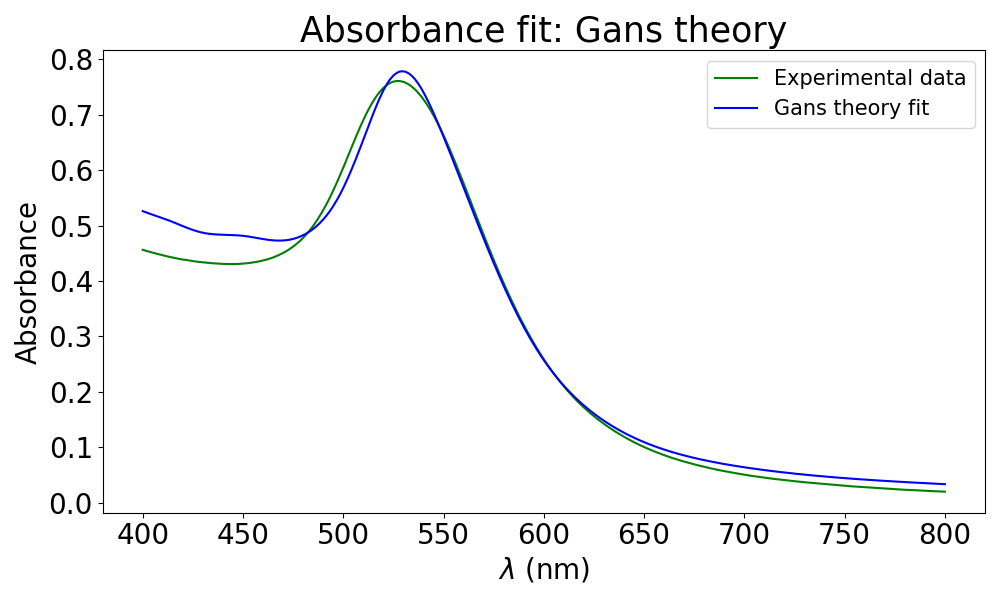
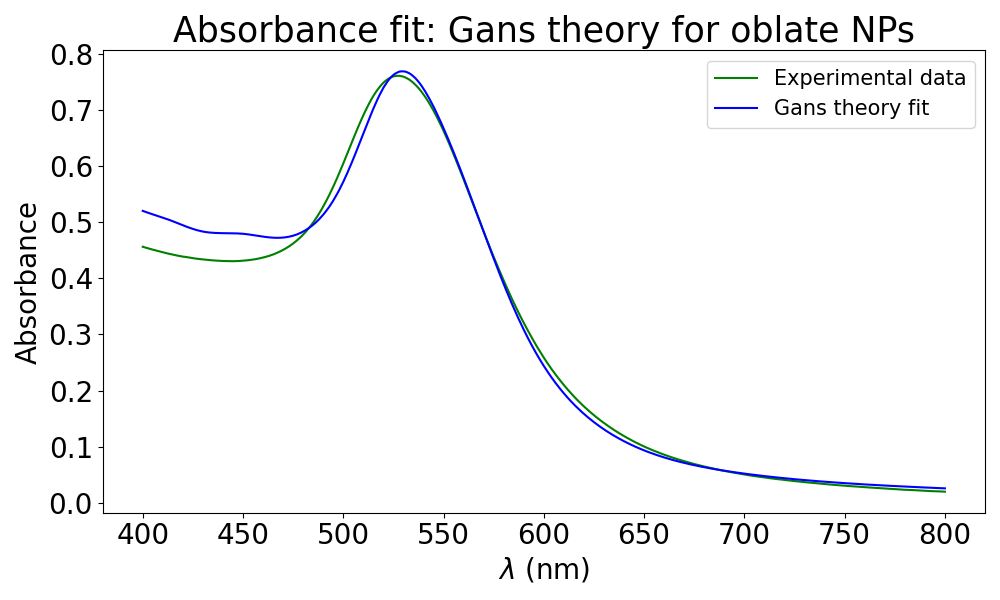
Clearing up some mess

diff --git a/main.py b/main.py
@@ -101,17 +101,34 @@ def Chi_R_epsilonm(R, epsilonm): # only accounts for the chi squared in the sele
 def Gans_prolate(e): # prolate dipolarization factor
     return (1-e**2)/e**2 * (1/(2*e)*np.log((1+e)/(1-e))-1)
 
+def Gans_oblate(e): # oblate dipolarization factor
+    return 1/e**2 * (1-np.sqrt(1-e**2)/e*np.arcsin(e))
+
 def Gans_cs_prolate(l, R, epsilonm, L1): # cross section [nm**2]
-    c1 = epsilon2(l, R)/(L1**2* (epsilon1(l, R)+epsilonm*((1-L1)/L1))**2+epsilon2(l, R)**2)
+    c1 = epsilon2(l, R)/(L1**2* ((epsilon1(l, R)+epsilonm*((1-L1)/L1))**2+epsilon2(l, R)**2))
     L2 = (1-L1)/2
-    c2 = epsilon2(l, R)/(L2**2*(epsilon1(l, R)+epsilonm*((1-L2)/L2))**2+epsilon2(l, R)**2)
+    c2 = epsilon2(l, R)/(L2**2*((epsilon1(l, R)+epsilonm*((1-L2)/L2))**2+epsilon2(l, R)**2))
     return 1/3*omega(l)/c*epsilonm**(3/2)*4/3*np.pi*R**3*(c1 + 2*c2)
 
 def Gans_ec_prolate_f(l, R, epsilonm, f, L1): # extinction coefficient [nm**-1]
-    c1 = epsilon2(l, R)/(L1**2* (epsilon1(l, R)+epsilonm*((1-L1)/L1))**2+epsilon2(l, R)**2)
+    c1 = epsilon2(l, R)/(L1**2* ((epsilon1(l, R)+epsilonm*((1-L1)/L1))**2+epsilon2(l, R)**2))
     L2 = (1-L1)/2
-    c2 = epsilon2(l, R)/(L2**2*(epsilon1(l, R)+epsilonm*((1-L2)/L2))**2+epsilon2(l, R)**2)
+    c2 = epsilon2(l, R)/(L2**2*((epsilon1(l, R)+epsilonm*((1-L2)/L2))**2+epsilon2(l, R)**2))
     return 1/3*omega(l)/c*epsilonm**(3/2)*f*(c1 + 2*c2)
+
+def Gans_ec_prolate_f_e(l, R, epsilonm, f, e): # extinction coefficient [nm**-1]
+    L1 = Gans_prolate(e)
+    c1 = epsilon2(l, R)/(L1**2* ((epsilon1(l, R)+epsilonm*((1-L1)/L1))**2+epsilon2(l, R)**2))
+    L2 = (1-L1)/2
+    c2 = epsilon2(l, R)/(L2**2*((epsilon1(l, R)+epsilonm*((1-L2)/L2))**2+epsilon2(l, R)**2))
+    return 1/3*omega(l)/c*epsilonm**(3/2)*f*(c1 + 2*c2)
+
+def Gans_ec_oblate_f_e(l, R, epsilonm, f, e): # extinction coefficient [nm**-1]
+    L1 = Gans_oblate(e)
+    c1 = epsilon2(l, R)/(L1**2* ((epsilon1(l, R)+epsilonm*((1-L1)/L1))**2+epsilon2(l, R)**2))
+    L2 = (1-L1)/2
+    c2 = epsilon2(l, R)/(L2**2*((epsilon1(l, R)+epsilonm*((1-L2)/L2))**2+epsilon2(l, R)**2))
+    return 1/3*omega(l)/c*epsilonm**(3/2)*f*(2*c1 + c2)
 
 def Gans_ec_prolate_f_L1_fixed(l, R, epsilonm, f):
     L1 = Gans_prolate(e_guess)
@@ -119,6 +136,14 @@ def Gans_ec_prolate_f_L1_fixed(l, R, epsilonm, f):
 
 def Gans_absorbance_prolate(l, R, epsilonm, f, L1):
     ec = Gans_ec_prolate_f(l, R, epsilonm, f, L1)
+    return np.log10(np.e)*z*ec
+
+def Gans_absorbance_prolate_e(l, R, epsilonm, f, e):
+    ec = Gans_ec_prolate_f_e(l, R, epsilonm, f, e)
+    return np.log10(np.e)*z*ec
+
+def Gans_absorbance_oblate_e(l, R, epsilonm, f, e):
+    ec = Gans_ec_oblate_f_e(l, R, epsilonm, f, e)
     return np.log10(np.e)*z*ec
 
 def Gans_absorbance_prolate_rho(l, R, epsilonm, rho, L1): 
@@ -405,7 +430,7 @@ plt.yticks(fontsize=fs)
 plt.legend(fontsize=fs//4*3)
 plt.tight_layout()
 
-#%% GANS THEORY
+#%% GANS THEORY: prolate
 f_fit = rho_fit * 4/3 * np.pi * R_fit**3
 
 bounds_ = ([0, 1, 1*10**(-7), 0], [np.inf, np.inf, 1*10**(-5), 1])
@@ -415,7 +440,7 @@ Absorbance_fitted_Gans_ = Gans_absorbance_prolate(l,
     R=par_fit_Gans_[0], epsilonm=par_fit_Gans_[1], f=par_fit_Gans_[2], L1=par_fit_Gans_[3])
 
 with open("outputfile.txt", "a") as outfile:
-    multiwrite(outfile, "Gans fit restricted to 470nm-570nm:")
+    multiwrite(outfile, "Gans fit restricted to 470nm-570nm: using L1")
     multiwrite(outfile, "R = " + str(par_fit_Gans_[0]) + " nm, with error " + str(np.sqrt(par_cov_Gans_[0,0])) + " nm")
     multiwrite(outfile, "epsilonm = " + str(par_fit_Gans_[1]) + "with error " + str(np.sqrt(par_cov_Gans_[1,1])))
     multiwrite(outfile, "f = " + str(par_fit_Gans_[2]) + "with error " + str(np.sqrt(par_cov_Gans_[2,2])))
@@ -434,8 +459,66 @@ plt.yticks(fontsize=fs)
 plt.legend(fontsize=fs//4*3)
 plt.tight_layout()
 
-# Manual fit by definition and optimization of a proper chi squared
+# using e instead of L1
+f_fit = rho_fit * 4/3 * np.pi * R_fit**3
 
+bounds_e = ([0.01, 1, 1*10**(-7), 0.01], [np.inf, np.inf, 1*10**(-5), 1])
+par_fit_Gans_e, par_cov_Gans_e = curve_fit(Gans_absorbance_prolate_e,
+    l_r, absorbance_r, p0=(R_fit, epsilonm_fit, f_fit, e_guess), bounds = bounds_, maxfev=5000)
+Absorbance_fitted_Gans_e = Gans_absorbance_prolate_e(l,
+    R=par_fit_Gans_e[0], epsilonm=par_fit_Gans_e[1], f=par_fit_Gans_e[2], e=par_fit_Gans_e[3])
+
+with open("outputfile.txt", "a") as outfile:
+    multiwrite(outfile, "Gans fit restricted to 470nm-570nm: prolate")
+    multiwrite(outfile, "R = " + str(par_fit_Gans_e[0]) + " nm, with error " + str(np.sqrt(par_cov_Gans_e[0,0])) + " nm")
+    multiwrite(outfile, "epsilonm = " + str(par_fit_Gans_e[1]) + "with error " + str(np.sqrt(par_cov_Gans_e[1,1])))
+    multiwrite(outfile, "f = " + str(par_fit_Gans_e[2]) + "with error " + str(np.sqrt(par_cov_Gans_e[2,2])))
+    multiwrite(outfile, "e = " + str(par_fit_Gans_e[3]) + "with error " + str(np.sqrt(par_cov_Gans_e[3,3])))
+    multiwrite(outfile, "Chi-squared = " + str(Chi(absorbance, Absorbance_fitted_Gans_e)))
+    multiwrite(outfile, "")
+    
+plt.figure(figsize=(10, 6), dpi=100)
+plt.plot(l, absorbance, color="green", label="Experimental data")
+plt.plot(l, Absorbance_fitted_Gans_e, color="blue", label="Gans theory fit")
+plt.title("Absorbance fit: Gans theory for prolate NPs", fontsize=fs+5)
+plt.xlabel(r"$\lambda$ (nm)", fontdict={"fontsize": fs})
+plt.xticks(fontsize=fs)
+plt.ylabel("Absorbance", fontdict={"fontsize": fs})
+plt.yticks(fontsize=fs)
+plt.legend(fontsize=fs//4*3)
+plt.tight_layout()
+
+#%% GANS THEORY: oblate
+
+f_fit = rho_fit * 4/3 * np.pi * R_fit**3
+
+bounds_eo = ([0.01, 1, 1*10**(-7), 0.01], [np.inf, np.inf, 1*10**(-5), 1])
+par_fit_Gans_eo, par_cov_Gans_eo = curve_fit(Gans_absorbance_oblate_e,
+    l_r, absorbance_r, p0=(R_fit, epsilonm_fit, f_fit, e_guess), bounds = bounds_, maxfev=5000)
+Absorbance_fitted_Gans_eo = Gans_absorbance_oblate_e(l,
+    R=par_fit_Gans_eo[0], epsilonm=par_fit_Gans_eo[1], f=par_fit_Gans_eo[2], e=par_fit_Gans_eo[3])
+
+with open("outputfile.txt", "a") as outfile:
+    multiwrite(outfile, "Gans fit restricted to 470nm-570nm: oblate")
+    multiwrite(outfile, "R = " + str(par_fit_Gans_eo[0]) + " nm, with error " + str(np.sqrt(par_cov_Gans_eo[0,0])) + " nm")
+    multiwrite(outfile, "epsilonm = " + str(par_fit_Gans_eo[1]) + "with error " + str(np.sqrt(par_cov_Gans_eo[1,1])))
+    multiwrite(outfile, "f = " + str(par_fit_Gans_eo[2]) + "with error " + str(np.sqrt(par_cov_Gans_eo[2,2])))
+    multiwrite(outfile, "e = " + str(par_fit_Gans_eo[3]) + "with error " + str(np.sqrt(par_cov_Gans_eo[3,3])))
+    multiwrite(outfile, "Chi-squared = " + str(Chi(absorbance, Absorbance_fitted_Gans_eo)))
+    multiwrite(outfile, "")
+    
+plt.figure(figsize=(10, 6), dpi=100)
+plt.plot(l, absorbance, color="green", label="Experimental data")
+plt.plot(l, Absorbance_fitted_Gans_eo, color="blue", label="Gans theory fit")
+plt.title("Absorbance fit: Gans theory for oblate NPs", fontsize=fs+5)
+plt.xlabel(r"$\lambda$ (nm)", fontdict={"fontsize": fs})
+plt.xticks(fontsize=fs)
+plt.ylabel("Absorbance", fontdict={"fontsize": fs})
+plt.yticks(fontsize=fs)
+plt.legend(fontsize=fs//4*3)
+plt.tight_layout()
+'''
+# Manual fit by definition and optimization of a proper chi squared
 R_domain_Gans = np.arange(2, 15, 0.2)
 epsilonm_domain_Gans = np.arange(1.4, 3, 0.05)
 f_domain_Gans = np.arange(1*10**-7, 5*10**-6, 5*10**-7)
@@ -485,7 +568,7 @@ with open("outputfile.txt", "a") as outfile:
     multiwrite(outfile, "R = " + str(R_Gans2) + " nm")
     multiwrite(outfile, "f = " + str(f_Gans2))
     multiwrite(outfile, "")
-
+'''
 #%% GANS THEORY: using rho
 
 bounds_ = ([0, 1, 1*10**(-10), 0], [np.inf, np.inf, 1*10**(-6), 1])
@@ -514,9 +597,7 @@ plt.yticks(fontsize=fs)
 plt.legend(fontsize=fs//4*3)
 plt.tight_layout()
 
-# epsilonm is garbage; all errors are huge
-# Repeat the fit fixing epsilonm
-
+# fixing epsilonm: we obtain a Mie-like result
 bounds_2 = ([0, 1*10**(-10), 0], [np.inf, 1*10**(-6), 1])
 par_fit_Gans_rho2, par_cov_Gans_rho2 = curve_fit(Gans_absorbance_prolate_rho_epsilonmfix,
     l_r, absorbance_r, p0=(R_fit, rho_fit, 1/3), bounds = bounds_2, maxfev=5000)
@@ -560,13 +641,7 @@ epsilonm_Gans = epsilonm_domain_Gans[argmin_Gans[1]]
 f_Gans = f_domain_Gans[argmin_Gans[2]]
 L1_Gans = L1_domain_Gans[argmin_Gans[3]]
 '''
-
-# Attempts at fixing some of the variables; does not help
-# The problem is that the curve is very well fitted by bulk values for the dielectric function
-# Thus we can not infer the value of R, which is the one we're most interested in
-# The only saving grace is that the ellipticity values are extremely small
-# So we might say that Gans theory is not necessary and keep using our previous results
-
+# fixing e
 bounds = ([0, 1, 1*10**(-7)], [20, 3, 1*10**(-5)])
 par_fit_Gans, par_cov_Gans = curve_fit(Gans_absorbance_prolate_L1_fixed,
     l_r, absorbance_r, p0=(R_fit, epsilonm_fit, f_fit), bounds = bounds, maxfev=5000)
@@ -592,7 +667,7 @@ plt.yticks(fontsize=fs)
 plt.legend(fontsize=fs//4*3)
 plt.tight_layout()
 
-
+#fixing f
 bounds_f = ([0, 1, 0], [20, 3, 1])
 par_fit_Gans_f, par_cov_Gans_f = curve_fit(Gans_absorbance_prolate_f_fixed,
     l_r, absorbance_r, p0=(R_fit, epsilonm_fit, e_guess), bounds = bounds_f, maxfev=5000)
@@ -617,61 +692,3 @@ plt.ylabel("Absorbance", fontdict={"fontsize": fs})
 plt.yticks(fontsize=fs)
 plt.legend(fontsize=fs//4*3)
 plt.tight_layout()
-
-#%% GANS THEORY
-
-
-def cross_section_rho(x,a,b,bool_lim=False):  # a = R, b=rho
-    omega = 2 * np.pi * c / x
-    epsm = 1.33**2#1.43*1.43 #1.33*1.33         
-    eps1 = epsilon1(l,a)
-    eps2 = epsilon2(l,a)
-    const1  = 1/3 * 4/3 * np.pi * 1/c
-    const2 = np.log10(np.e) * z
-    # a1 = 23 # Major axis
-    # a2 = 20  # Minor axis
-    # ecc = np.sqrt( 1 - (a2/a1)**2 )
-    ecc = 0.217
-    L1  = (1-ecc**2)/ecc**2 * ( 1/(2*ecc) * np.log((1+ecc)/(1-ecc)) - 1)
-    L2  = (1-L1)/2
-    summation = eps2/L1**2 / ( ( eps1 + epsm * (1-L1)/L1)**2 + eps2**2)   +  2 * eps2/L2**2 / ( ( eps1 + epsm * (1-L2)/L2)**2 + eps2**2)
-    sigma = const1 * const2 * b * omega * np.power(epsm,3/2) * np.power(a,3) * summation
-    return sigma
-
-R_list = np.linspace(3, 20, num=200)
-rho_list = np.linspace(1 * 10**-9, 5*10**-8, num=200)
-x = l
-y = absorbance
-error = 1/y
-chi_list = np.zeros((len(R_list), len(rho_list))) 
-
-for i in range(len(R_list)):
-    for j in range(len(rho_list)):
-        chisq = np.sum( np.power( y - cross_section_rho(x,R_list[i],rho_list[j],bool_lim=True), 2)  /(np.power(error,2)) )
-        chi_list[i, j] = chisq
-        
-argmin = np.argwhere(chi_list == chi_list.min())[0]
-R_min = R_list[argmin[0]]
-rho_min = rho_list[argmin[1]]
-
-print('R=', R_min)
-print('rho=', rho_min)
-
-fig, ax = plt.subplots(figsize=(10, 6), dpi=100)
-contour_plot = plt.contourf(R_list, rho_list, chi_list.transpose(),
-                            np.logspace(np.log10(chi_list.min()), np.log10(chi_list.max()), 30),
-                            locator=ticker.LogLocator(), cmap="plasma")
-colbar = plt.colorbar()
-colbar.set_label(label=r"$\chi^2$",size=fs)
-colbar.ax.tick_params(labelsize=fs)
-plt.title(r"$\chi^2$ map of absorbance for Gans theory: (R, f)", fontsize=fs+5)
-plt.xlabel("R (nm)", fontdict={"fontsize": fs})
-plt.xticks(fontsize=fs)
-plt.ylabel("rho", fontdict={"fontsize": fs})
-plt.yticks(fontsize=fs)
-t = ax.yaxis.get_offset_text()
-t.set_size(fs)
-plt.tight_layout()
-
-# In this section we used rho instead of f
-# We basically have the same problem, but reversed: R goes as low as it can
